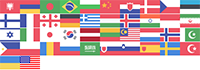
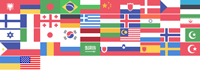
Add IE8 flags

diff --git a/stylesheets/sass/ie8.scss b/stylesheets/sass/ie8.scss
@@ -3,17 +3,18 @@
 @import '_variables';
 
 // MENUS
-.menu-lang-btn,
-.menu-lang li a.ico-lang {
-  &:after {
-    background-image: url('../images/ico-flags-small.png');
-  }
-}
-
 .menu-lang-btn {
   &:before,
   &:after {
     margin-top: -6px;
+    margin-left: -1px;
+  }
+}
+
+.menu-lang-btn,
+.menu-lang li a.ico-lang {
+  .no-svg &:after {
+    background-image: url('../images/ico-flags-small.png');
   }
 }
 
